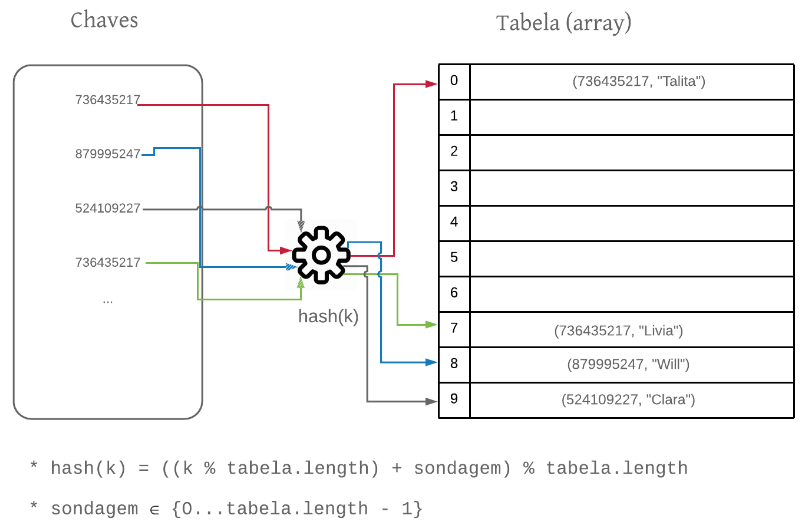
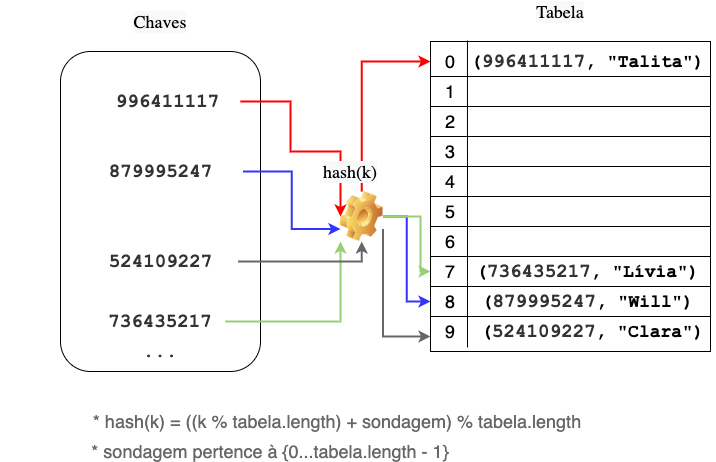
novo

diff --git a/posts/hashtable/index.html b/posts/hashtable/index.html
@@ -222,7 +222,7 @@
     <span style="color:#66d9ef">return</span> chave<span style="color:#f92672">;</span>
 <span style="color:#f92672">}</span>
 <span style="color:#f92672">...</span>
-</code></pre></div><p>Ou seja, o hash de uma chave é o valor dela própria. Essa é uma função de hash bem simples, mas adequada para diversos contextos. Contudo, isso nos causou problemas para para grandes valores chave e para cenários em que o número de chaves efetivamente usado for bem menor que o número de chaves possível, lembra?</p>
+</code></pre></div><p>Ou seja, o hash de uma chave é o valor dela própria. Essa é uma função de hash bem simples, mas adequada para diversos contextos. Contudo, isso nos causou problemas para grandes valores chave e para cenários em que o número de chaves efetivamente usado for bem menor que o número de chaves possível, lembra?</p>
 <p>Uma alternativa para uma função de hash seria utilizar a operação matemática módulo. Vejamos:</p>
 <div class="highlight"><pre style="color:#f8f8f2;background-color:#272822;-moz-tab-size:4;-o-tab-size:4;tab-size:4"><code class="language-java" data-lang="java"><span style="color:#f92672">...</span>
 <span style="color:#66d9ef">private</span> <span style="color:#66d9ef">int</span> <span style="color:#a6e22e">hash</span><span style="color:#f92672">(</span><span style="color:#66d9ef">int</span> chave<span style="color:#f92672">)</span> <span style="color:#f92672">{</span>
@@ -371,12 +371,12 @@
 <li>(736435217, &ldquo;Lívia&rdquo;)</li>
 <li>(879995247, &ldquo;Will&rdquo;)</li>
 <li>(524109227, &ldquo;Clara&rdquo;)</li>
-<li>(736435217, &ldquo;Talita&rdquo;)</li>
+<li>(996411117, &ldquo;Talita&rdquo;)</li>
 </ul>
 <p>Nesse caso, como nossa função de hash mapeia todos os elementos para o índice 7, teríamos a seguinte configuração:</p>
 <p><img src="colisao.png" alt="colisao.png"></p>
 <p>Note que a busca por um elemento presente na tabela não seria mais realizada em tempo constante, pois envolve a iteração na lista que contém todos os elementos. Portanto, no pior caso, as operações teriam custo de execução $O(n)$, o que queremos evitar ao máximo.</p>
-<p>Naturalmente, não queremos que o pior caso seja frequente e, por isso, escolhemos funções de hash que &ldquo;espalham&rdquo; os elementos pela tabela para que as listas não possuam muitos elementos. Portanto, o desempenho médio das operações na tabela hash depende do tamanho médio das listas armazenadas. Lembra da propriedade de uma função de hash que estabelece que todos os índices do array devem ter aproximadamente a mesma chance de serem mapeados pela função de hash. Essa característica é importante para distribuir os elementos uniformemente pela tabela e faz com que as listas tenham tamanho médio semelhante. Então, para uma tabela de tamanho $m$ que armazena nelementos, esperamos que o tamanho médio das listas seja $\alpha = n/m$. A esta medida damos o nome de fator de carga.</p>
+<p>Naturalmente, não queremos que o pior caso seja frequente e, por isso, escolhemos funções de hash que &ldquo;espalham&rdquo; os elementos pela tabela para que as listas não possuam muitos elementos. Portanto, o desempenho médio das operações na tabela hash depende do tamanho médio das listas armazenadas. Lembra da propriedade de uma função de hash que estabelece que todos os índices do array devem ter aproximadamente a mesma chance de serem mapeados pela função de hash. Essa característica é importante para distribuir os elementos uniformemente pela tabela e faz com que as listas tenham tamanho médio semelhante. Então, para uma tabela de tamanho $m$ que armazena $n$ elementos, esperamos que o tamanho médio das listas seja $\alpha = n/m$. A esta medida damos o nome de fator de carga.</p>
 <p>A análise depende então do tempo de execução da função de hash e do tamanho médio das listas. Como vimos, escolhemos funções de hash que executam em $O(1)$.Então, o tempo de execução das operações básicas pode ser dado por:</p>
 <p>$T(n) = 1 + \alpha$, onde $\alpha$ é o tamanho médio das listas armazenadas na tabela.</p>
 <h3 id="resolução-de-colisões-por-endereçamento-aberto">Resolução de colisões por endereçamento aberto.</h3>
